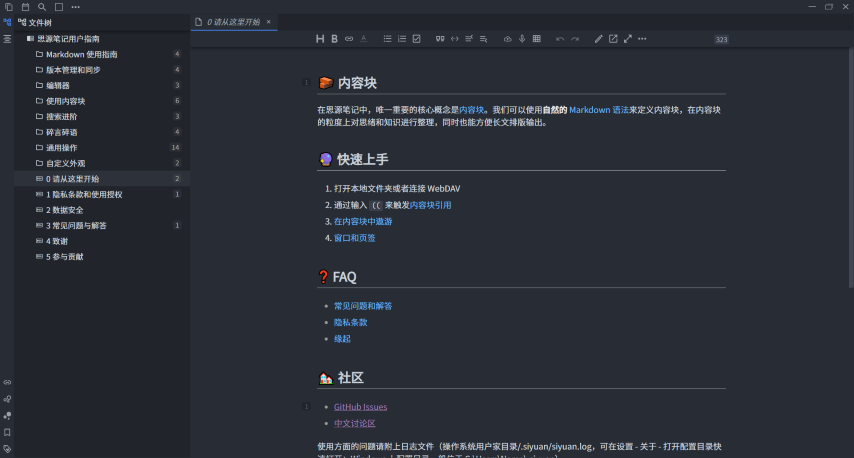
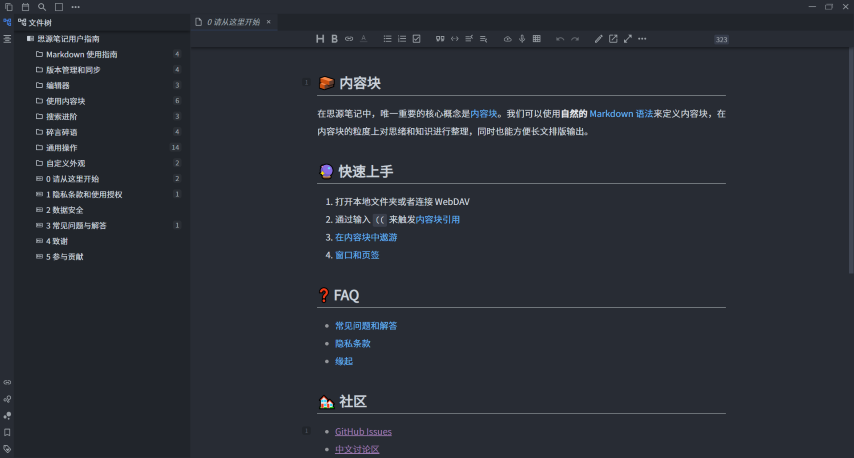
0.6.3 update

Changed region(s): [[0.3653, 0.3362, 0.8525, 1.0], [0.3653, 0.1528, 0.8525, 0.3057], [0.2436, 0.0611, 0.3044, 0.0917]]

diff --git a/theme.css b/theme.css
@@ -30,6 +30,7 @@
   --b3-theme-on-background: #c9d1d9;
   --b3-theme-on-surface: #9aa0a6;
   --b3-theme-on-error: #fff;
+  --AOD-todolist-done-color: #6e7581;
 
   /* 字体 */
   --b3-font-family: "Noto Sans Sc", "Helvetica Neue", "Luxi Sans", "DejaVu Sans",
@@ -64,6 +65,7 @@
   --b3-tab-background-hover: var(--AOD-tab-background-hover);
   --AOD-tab-background: #21252b;
   --AOD-tab-background-hover: #323842;
+  --AOD-tab-background-focus: #2c313a;
 
   /* 块标菜单 */
   --AOD-menu-color: rgb(91, 94, 100);
@@ -166,6 +168,12 @@
   fill: var(--b3-theme-on-surface);
 }
 
+/* 段落块样式 */
+.vditor-ir--tip p {
+  line-height: 2;
+  text-align: justify;
+}
+
 /* 富文本工具栏 */
 .vditor-toolbar {
   background-color: var(--AOD-theme-background) !important;
@@ -184,8 +192,9 @@
 
 /* 公式字号调整 */
 .MathJax svg {
-  font-size: 0.8em !important;
+  font-size: 0.95em !important;
 }
+
 .katex {
   font-size: 0.95em !important;
 }
@@ -202,16 +211,22 @@
 .vditor-ir ul p,
 .vditor-ir ol p {
   margin-bottom: 0;
-  /* padding:.24em 0; */
-  line-height: 2;
+  /* line-height: 2; */
 }
 
+/* 无序列表 */
 .vditor-ir ul ol,
-.vditor-ir ol ol,
-.vditor-ir ul ul,
-.vditor-ir ol ul {
+.vditor-ir ul ul {
   border-left: 1px solid var(--AOD-list-border-color);
   margin-left: -0.96em !important;
+  padding-left: 2.8em !important; /* 父子结点之间的距离 */
+}
+
+/* 有序列表 */
+.vditor-ir ol ol,
+.vditor-ir ol ul {
+  border-left: 1px solid var(--AOD-list-border-color);
+  margin-left: -0.8em !important;
   padding-left: 2.8em !important; /* 父子结点之间的距离 */
 }
 
@@ -315,14 +330,18 @@ blockquote {
   border-right-width: 0px;
 }
 
-/* 块引用预览、块嵌入、动态查询的阴影 */
-.block__popover,
-.vditor-ir div[data-type="block-ref-embed"] > div[data-render],
-.vditor-ir div[data-type="block-query-embed"] > div[data-render] {
+/* 块引用预览、块嵌入、动态查询的样式 */
+.block__popover {
   box-shadow: var(--AOD-card-shadow);
 }
 
-/* 块嵌入中间的横线 */
+.vditor-ir div[data-type="block-ref-embed"] > div[data-render],
+.vditor-ir div[data-type="block-query-embed"] > div[data-render] {
+  box-shadow: var(--AOD-card-shadow);
+  margin-top: 0.8em;
+}
+
+/* 动态查询中间的横线 */
 .vditor-ir
   div[data-type="block-query-embed"]
   > div[data-render]
@@ -353,6 +372,10 @@ blockquote {
   color: var(--AOD-menu-color);
 }
 
+/* .vditor-ir__menu--hover:not(.vditor-ir__menu--counter){
+  display: none;
+} */
+
 /* 引用计数块的样式 */
 .vditor-ir__menu span {
   padding: 0 3px;
@@ -368,9 +391,9 @@ blockquote {
   line-height: 15.5px;
 }
 
-.vditor-ir__menu[title^="段落"]:not([style$="left:-44px"]):not([style$="left:-66px"]) {
+/* .vditor-ir__menu[title^="段落"]:not([style$="left:-44px"]):not([style$="left:-66px"]) {
   margin-top: -4px;
-}
+} */
 
 /* .vditor div[style$="left:-22px"]:not([title^="无序列表"]):not([title^="有序列表"]):not([title^="列表项"]) {
   margin-left: -3em;
@@ -391,7 +414,7 @@ blockquote {
 .vditor-ir--tip > table,
 .vditor-ir--tip > ul,
 .vditor-ir--tip > ol,
-.vditor-ir--tip > div[data-type="code-block"] {
+.vditor-ir--tip > .vditor-ir__node {
   margin-left: 7px;
 }
 
@@ -426,7 +449,7 @@ blockquote {
 .vditor-task input[type="checkbox"]:not([disabled]):not(:checked):hover:before {
   content: "\2713";
   font-size: 0.9rem;
-  line-height: 1.2rem;
+  line-height: 1rem;
   color: hsl(192, 6%, 40%);
 }
 
@@ -434,7 +457,7 @@ blockquote {
 .vditor-task input[type="checkbox"]:checked:before {
   content: "\2713";
   font-size: 0.9rem;
-  line-height: 1.2rem;
+  line-height: 1rem;
   color: rgb(220, 220, 220);
 }
 
@@ -442,13 +465,13 @@ blockquote {
 .vditor-task input[type="checkbox"]:checked:hover:before {
   content: "\2713";
   font-size: 0.9rem;
-  line-height: 1.2rem;
+  line-height: 1rem;
   color: white;
 }
 
 /* 任务列表选中后的文本样式 */
 .vditor-task--done p {
-  color: #6e7581;
+  color: var(--AOD-todolist-done-color);
 }
 
 /* 任务列表与文字的距离 */
@@ -459,7 +482,7 @@ blockquote {
 /* 文件树页签内选中的样式 */
 div[data-type="navigation"] .b3-list-item--focus,
 .vditor-reset .b3-list-item--focus {
-  background-color: #2c313a !important;
+  background-color: var(--AOD-tab-background-focus) !important;
 }
 
 /* 文件树页签工具栏样式 */
@@ -470,24 +493,21 @@ div[data-type="navigation"] .b3-list-item--focus,
 
 /* 标签样式 */
 .vditor-ir span[data-type="tag"] {
-  display: inline-block;
   font-size: 85%;
   /* border: 1px solid var(--b3-theme-primary); */
   background-color: var(--b3-theme-primary-light);
-  border-radius: 6px;
+  border-radius: 3px;
   cursor: pointer;
-  padding: 0.1em 0.4em;
-  white-space: pre-wrap;
+  padding: 0.2em 0.4em;
+  white-space: nowrap;
 }
 
 .vditor-ir__tag {
-  display: inline-block;
   text-decoration: none;
   color: var(--b3-theme-on-background);
 }
 
 /* 行内代码块样式 */
 span[data-type="code"] > code {
-  padding: 0.1em 0.4em !important;
   background-color: var(--AOD-text-emphasize-color) !important;
 }

diff --git a/README.md b/README.md
@@ -14,6 +14,7 @@
   - 整体配色更改
   - 样式更改
     - 字体
+    - 段落块
     - 大纲
     - 表格
     - 任务列表
@@ -29,6 +30,19 @@
     - 标题块右移
 
 ## 历史版本
+
+### 0.6.3
+
+- 修改了部分语法
+- 更改了段落块样式
+- 修改了公式字号
+- 修复了无序列表的线条位置
+- 修改了块嵌入的样式
+- 修改了动态查询的样式
+  - 改正了注释
+- 修改了任务列表的样式
+- 修改了标签的样式
+- 修改了行内代码块的样式
 
 ### 0.5.3
 
